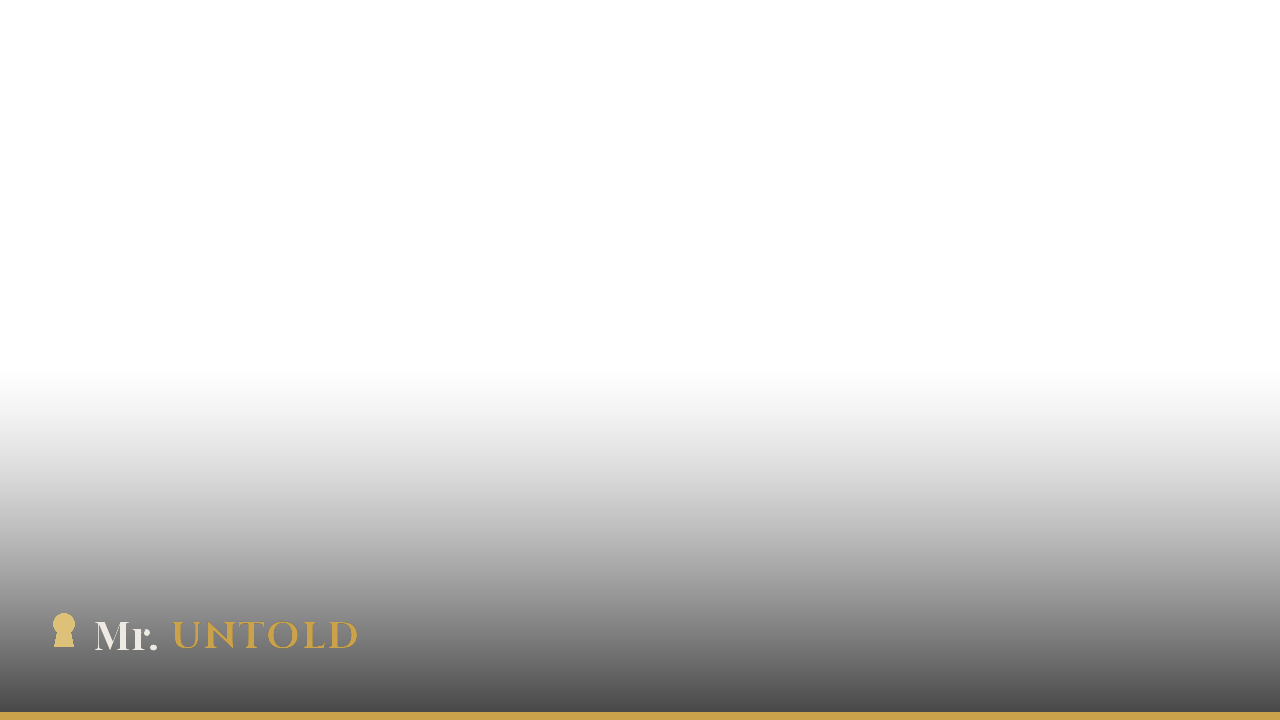
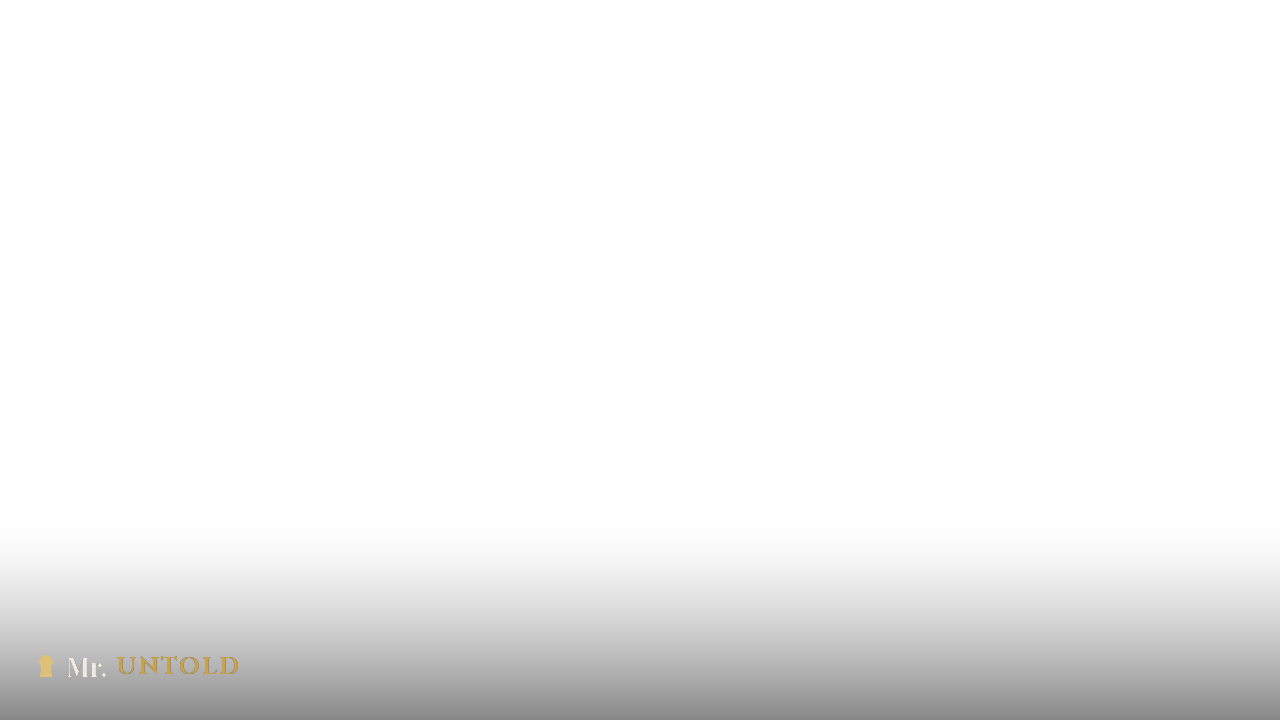
장면 크로스페이드 전환 + 역동적 켄번스 + 썸네일 워드마크 축소(금색 바 제거)
- compose: 장면 간 디졸브 전환(xfade/acrossfade), 시작·끝 페이드, 자막 오프셋 보정
- 켄번스 4종(확대/축소/좌팬/우팬)으로 카메라 무빙 다양화
- brand_overlay: 워드마크 작게, 금색 바 삭제, 그라데이션 약하게

Claude-Session: https://claude.ai/code/session_01WtMBo57DKuR1P8aDcE3cew

diff --git a/youtube-auto/autotube/stages/compose.py b/youtube-auto/autotube/stages/compose.py
@@ -1,4 +1,4 @@
-"""합성: 장면별 클립(그림+움직임+내레이션) → 이어붙이기 → 강조 자막 → 배경음악 → final.mp4"""
+"""합성: 장면별 클립 → 크로스페이드 전환으로 이어붙이기 → 강조 자막 → 배경음악 → final.mp4"""
 
 import json
 from pathlib import Path
@@ -8,74 +8,101 @@ from ..render.kenburns import FPS
 from ..render.subtitles import build_ass
 from ..render.util import frame_size, probe_duration, run
 
+XFADE = 0.5  # 장면 전환(디졸브) 길이(초)
 
-def _scene_clip(scene: dict, image: Path, clip: Path | None, audio: Path, dur: float,
-                size: tuple[int, int], out: Path) -> None:
+
+def _kenburns_vf(idx: int, frames: int, w: int, h: int) -> str:
+    """장면마다 다른 카메라 무빙 (확대/축소/좌우 팬)."""
+    base = f"scale={w*2}:{h*2}:force_original_aspect_ratio=increase,crop={w*2}:{h*2}"
+    cxy = "x='iw/2-(iw/zoom/2)':y='ih/2-(ih/zoom/2)'"
+    v = idx % 4
+    if v == 0:    # 천천히 확대
+        z = f"1.0+0.30*on/{frames}"
+        xy = cxy
+    elif v == 1:  # 천천히 축소
+        z = f"1.30-0.30*on/{frames}"
+        xy = cxy
+    elif v == 2:  # 좌 → 우 팬
+        z = "1.14"
+        xy = f"x='(iw-iw/zoom)*on/{frames}':y='ih/2-(ih/zoom/2)'"
+    else:         # 우 → 좌 팬
+        z = "1.14"
+        xy = f"x='(iw-iw/zoom)*(1-on/{frames})':y='ih/2-(ih/zoom/2)'"
+    return f"{base},zoompan=z='{z}':{xy}:d={frames}:s={w}x{h}:fps={FPS},format=yuv420p"
+
+
+def _scene_clip(scene: dict, idx: int, image: Path, clip: Path | None, audio: Path,
+                dur: float, size: tuple[int, int], out: Path) -> None:
     w, h = size
     if clip and clip.exists():
         vf = (f"scale={w}:{h}:force_original_aspect_ratio=decrease,"
               f"pad={w}:{h}:(ow-iw)/2:(oh-ih)/2,fps={FPS},format=yuv420p")
-        src = ["-stream_loop", "-1", "-i", clip]
+        src = ["-stream_loop", "-1", "-i", str(clip)]
     else:
-        frames = max(int(dur * FPS), 1)
-        motion = scene.get("motion", "kenburns_in")
-        base = f"scale={w*2}:{h*2}:force_original_aspect_ratio=increase,crop={w*2}:{h*2}"
-        if motion == "kenburns_pan":
-            z, x, y = "min(zoom+0.0008,1.15)", f"(iw-iw/zoom)*on/{frames}", "ih/2-(ih/zoom/2)"
-        else:
-            z, x, y = "min(zoom+0.0012,1.2)", "iw/2-(iw/zoom/2)", "ih/2-(ih/zoom/2)"
-        vf = f"{base},zoompan=z='{z}':x='{x}':y='{y}':d={frames}:s={w}x{h}:fps={FPS},format=yuv420p"
-        src = ["-loop", "1", "-i", image]
-    run([*src, "-i", audio, "-t", f"{dur:.3f}", "-vf", vf,
+        vf = _kenburns_vf(idx, max(int(dur * FPS), 1), w, h)
+        src = ["-loop", "1", "-i", str(image)]
+    run([*src, "-i", str(audio), "-t", f"{dur:.3f}", "-vf", vf,
          "-map", "0:v", "-map", "1:a", "-c:v", "libx264", "-preset", "medium", "-crf", "20",
-         "-c:a", "aac", "-b:a", "192k", "-ar", "48000", "-ac", "2", "-shortest", out])
+         "-c:a", "aac", "-b:a", "192k", "-ar", "48000", "-ac", "2", "-shortest", str(out)])
 
 
 def run_stage(run_dir: Path, plan: dict, cfg: dict) -> Path:
-    size = frame_size("long")
+    w, h = size = frame_size("long")
     timing = json.loads((run_dir / "timing.json").read_text(encoding="utf-8"))
     comp = run_dir / "compose"
     comp.mkdir(exist_ok=True)
 
-    entries, offset, clip_files = [], 0.0, []
+    durs, clip_files, entries = [], [], []
+    cum = 0.0
     for i, scene in enumerate(plan["scenes"], 1):
         key = f"{i:02}"
         audio = run_dir / "audio" / f"scene_{key}.mp3"
         dur = probe_duration(audio)
         sc = comp / f"scene_{key}.mp4"
         if not sc.exists():
-            _scene_clip(scene, run_dir / "images" / f"scene_{key}.png",
+            _scene_clip(scene, i - 1, run_dir / "images" / f"scene_{key}.png",
                         run_dir / "clips" / f"scene_{key}.mp4", audio, dur, size, sc)
         clip_files.append(sc)
+        # 크로스페이드로 겹치는 만큼 시작 시각이 앞당겨진다: start_i = cum - i*XFADE
+        soff = cum - (i - 1) * XFADE
         for ch in timing[key]["chunks"]:
-            entries.append({"text": ch["text"], "start": ch["start"] + offset,
-                            "end": ch["end"] + offset, "highlight": ch.get("highlight", [])})
-        offset += dur
+            entries.append({"text": ch["text"], "start": round(ch["start"] + soff, 2),
+                            "end": round(ch["end"] + soff, 2), "highlight": ch.get("highlight", [])})
+        durs.append(dur)
+        cum += dur
 
-    concat = run_dir / "concat.txt"
-    concat.write_text("".join(f"file 'compose/{p.name}'\n" for p in clip_files), encoding="utf-8")
-    joined = run_dir / "joined.mp4"
-    run(["-f", "concat", "-safe", "0", "-i", "concat.txt", "-c", "copy", "joined.mp4"], cwd=run_dir)
-
-    final = run_dir / "final.mp4"
-    cmd = ["-i", "joined.mp4"]
-    af = None
-    vf_parts = []
-    if cfg.get("subtitles", {}).get("enabled", True):
+    n = len(clip_files)
+    total = sum(durs) - (n - 1) * XFADE
+    subs_on = cfg.get("subtitles", {}).get("enabled", True)
+    if subs_on:
         build_ass(entries, cfg["subtitles"], size, run_dir / "subs.ass")
-        vf_parts.append(f"subtitles=subs.ass:fontsdir={FONT_DIR}")
     bgm = (cfg.get("music") or {}).get("bgm_path")
+
+    # ---- 필터 그래프: 영상 크로스페이드 + 오디오 크로스페이드 (+자막 +배경음악) ----
+    inputs, parts = [], []
+    for p in clip_files:
+        inputs += ["-i", f"compose/{p.name}"]
+    vprev, aprev, sb = "[0:v]", "[0:a]", 0.0
+    for k in range(1, n):
+        sb += durs[k - 1]
+        off = sb - k * XFADE
+        parts.append(f"{vprev}[{k}:v]xfade=transition=fade:duration={XFADE}:offset={off:.3f}[v{k}]")
+        parts.append(f"{aprev}[{k}:a]acrossfade=d={XFADE}[a{k}]")
+        vprev, aprev = f"[v{k}]", f"[a{k}]"
+    vchain = f"{vprev}fade=t=in:st=0:d=0.6,fade=t=out:st={max(0.0, total-0.6):.3f}:d=0.6"
+    if subs_on:
+        vchain += f",subtitles=subs.ass:fontsdir={FONT_DIR}"
+    parts.append(f"{vchain}[vout]")
     if bgm:
-        cmd += ["-stream_loop", "-1", "-i", str(Path(bgm).resolve())]
+        inputs += ["-stream_loop", "-1", "-i", str(Path(bgm).resolve())]
         vol = cfg["music"].get("bgm_volume", 0.12)
-        af = f"[1:a]volume={vol}[bg];[0:a][bg]amix=inputs=2:duration=first:normalize=0[a]"
-    if vf_parts:
-        cmd += ["-vf", ",".join(vf_parts)]
-    if af:
-        cmd += ["-filter_complex", af, "-map", "0:v", "-map", "[a]"]
+        parts.append(f"[{n}:a]volume={vol}[bg];{aprev}[bg]amix=inputs=2:duration=first:normalize=0[aout]")
+        amap = "[aout]"
     else:
-        cmd += ["-map", "0:v", "-map", "0:a"]
-    cmd += ["-c:v", "libx264", "-preset", "medium", "-crf", "19",
-            "-c:a", "aac", "-b:a", "192k", "-movflags", "+faststart", "final.mp4"]
+        amap = aprev
+
+    cmd = inputs + ["-filter_complex", ";".join(parts), "-map", "[vout]", "-map", amap,
+                    "-c:v", "libx264", "-preset", "medium", "-crf", "19",
+                    "-c:a", "aac", "-b:a", "192k", "-movflags", "+faststart", "final.mp4"]
     run(cmd, cwd=run_dir)
-    return final
+    return run_dir / "final.mp4"
